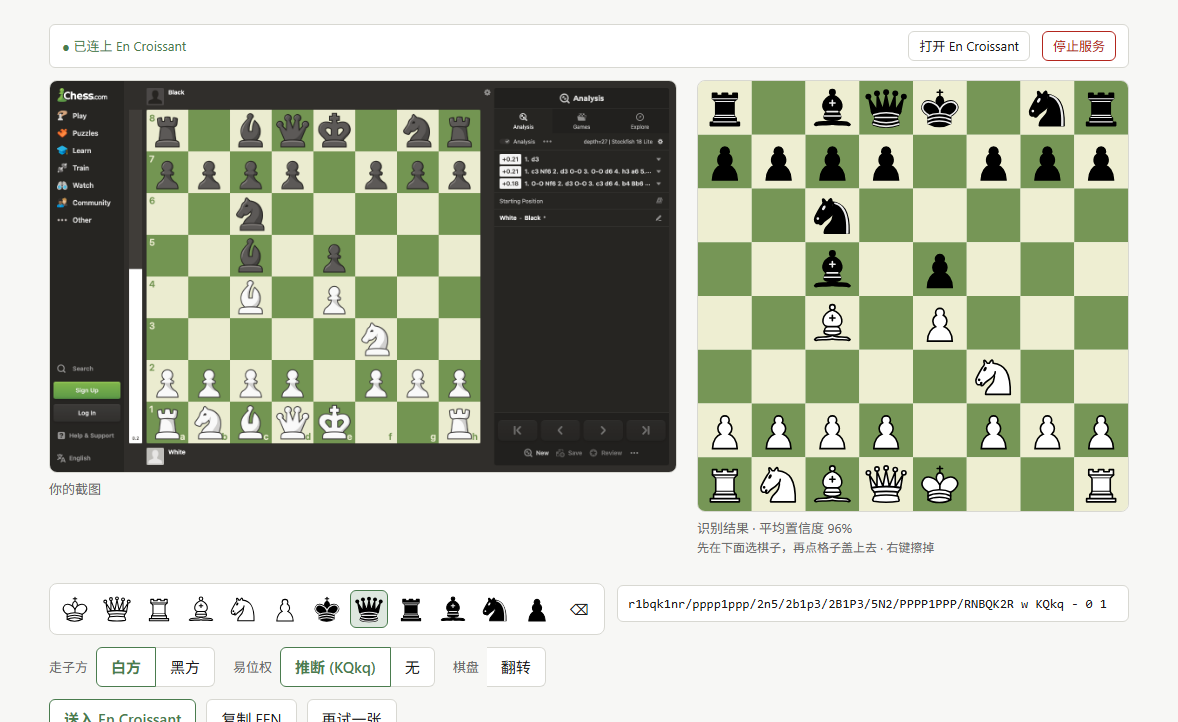
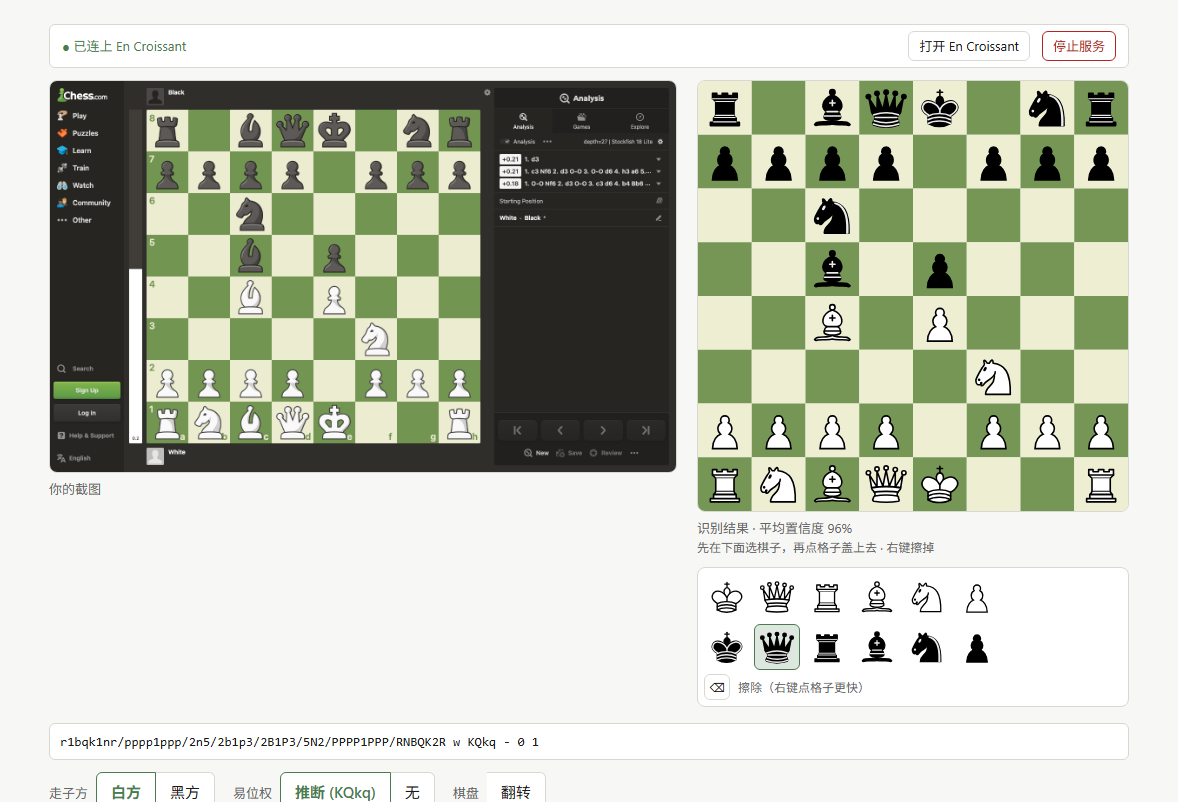
fix: palette under the board column, eraser as a small labelled button

diff --git a/src/main.js b/src/main.js
@@ -267,11 +267,11 @@ function renderResult() {
           识别结果 · 平均置信度 ${confidence}%${state.edited ? " · 已手动修正" : ""}
           <br /><span class="edit-hint">先在下面选棋子，再点格子盖上去 · 右键擦掉</span>
         </figcaption>
+        ${paletteHtml()}
       </figure>
     </section>
 
     <section class="under-board">
-      ${paletteHtml()}
       ${banners}
       ${noticeHtml}
       <code class="placement">${escapeHtml(fen)}</code>
@@ -338,7 +338,17 @@ function paletteHtml() {
     `data-piece="${piece}" title="${piece === "" ? "擦除" : piece}">` +
     (piece === "" ? "⌫" : `<img src="${PIECE_URLS[piece]}" alt="${piece}" />`) +
     `</button>`;
-  return `<div class="palette">${[...PALETTE, ""].map(button).join("")}</div>`;
+  const row = (pieces) => `<div class="palette-row">${pieces.map(button).join("")}</div>`;
+  // 白子一行、黑子一行；擦除单独放一个小的工具按钮，免得和棋子一样大
+  const white = PALETTE.filter((p) => p === p.toUpperCase());
+  const black = PALETTE.filter((p) => p !== p.toUpperCase());
+  const eraser =
+    `<div class="palette-row palette-erase">` +
+    `<button type="button" class="palette-btn small ${state.activePiece === "" ? "on" : ""}" ` +
+    `data-piece="" title="擦除">⌫</button>` +
+    `<span class="palette-label">擦除（右键点格子更快）</span>` +
+    `</div>`;
+  return `<div class="palette">${row(white)}${row(black)}${eraser}</div>`;
 }
 
 /** Same primitive for both buttons: stamp the selected piece (or erase). The

diff --git a/src/style.css b/src/style.css
@@ -340,8 +340,7 @@ table.fixtures tr.pass td:nth-child(3) {
 }
 
 .palette {
-  display: flex;
-  flex-wrap: wrap;
+  display: grid;
   gap: 4px;
   margin-top: 10px;
   padding: 6px;
@@ -350,9 +349,37 @@ table.fixtures tr.pass td:nth-child(3) {
   background: var(--panel);
 }
 
+.palette-row {
+  display: grid;
+  grid-template-columns: repeat(6, 46px);
+  justify-content: start;
+  gap: 4px;
+}
+
+.palette-erase {
+  display: flex;
+  align-items: center;
+  gap: 8px;
+  grid-template-columns: none;
+}
+
+.palette-label {
+  font-size: 12px;
+  color: var(--muted);
+}
+
+.palette-btn.small {
+  width: 26px;
+  height: 26px;
+  padding: 0;
+  font-size: 13px;
+  border: 1px solid var(--line);
+}
+
 .palette-btn {
-  width: 38px;
-  height: 38px;
+  width: 46px;
+  height: 46px;
+  padding: 3px;
   padding: 2px;
   display: grid;
   place-items: center;

diff --git a/README.md b/README.md
@@ -132,10 +132,11 @@ lichess 的 cburnett 棋子素材，黑白一眼能分开。
 
 改法和 lichess / chess.com 的棋盘编辑器一样：**先选子，再盖章**。
 
-1. 棋盘下面一排调色板：白 ♔♕♖♗♘♙，黑 ♚♛♜♝♞♟，最后一个是擦除 ⌫
+1. 棋盘**下面**三行：第一行白子 ♔♕♖♗♘♙，第二行黑子 ♚♛♜♝♞♟，
+   第三行一个小按钮 `⌫ 擦除`
 2. 点一个棋子 → 它高亮（再点一次取消选中）
 3. 点棋盘上的格子 → 就把那个子盖上去
-4. **右键点格子 → 直接擦掉**（不用先选擦除）
+4. **右键点格子 → 直接擦掉**（比先选擦除快）
 
 改完 FEN、易位权、合法性警告会**立刻重算**（比如把 a8 的黑车擦掉，易位权会从
 `KQkq` 变成 `KQk`），改好了再送。标题会标上「已手动修正」。
